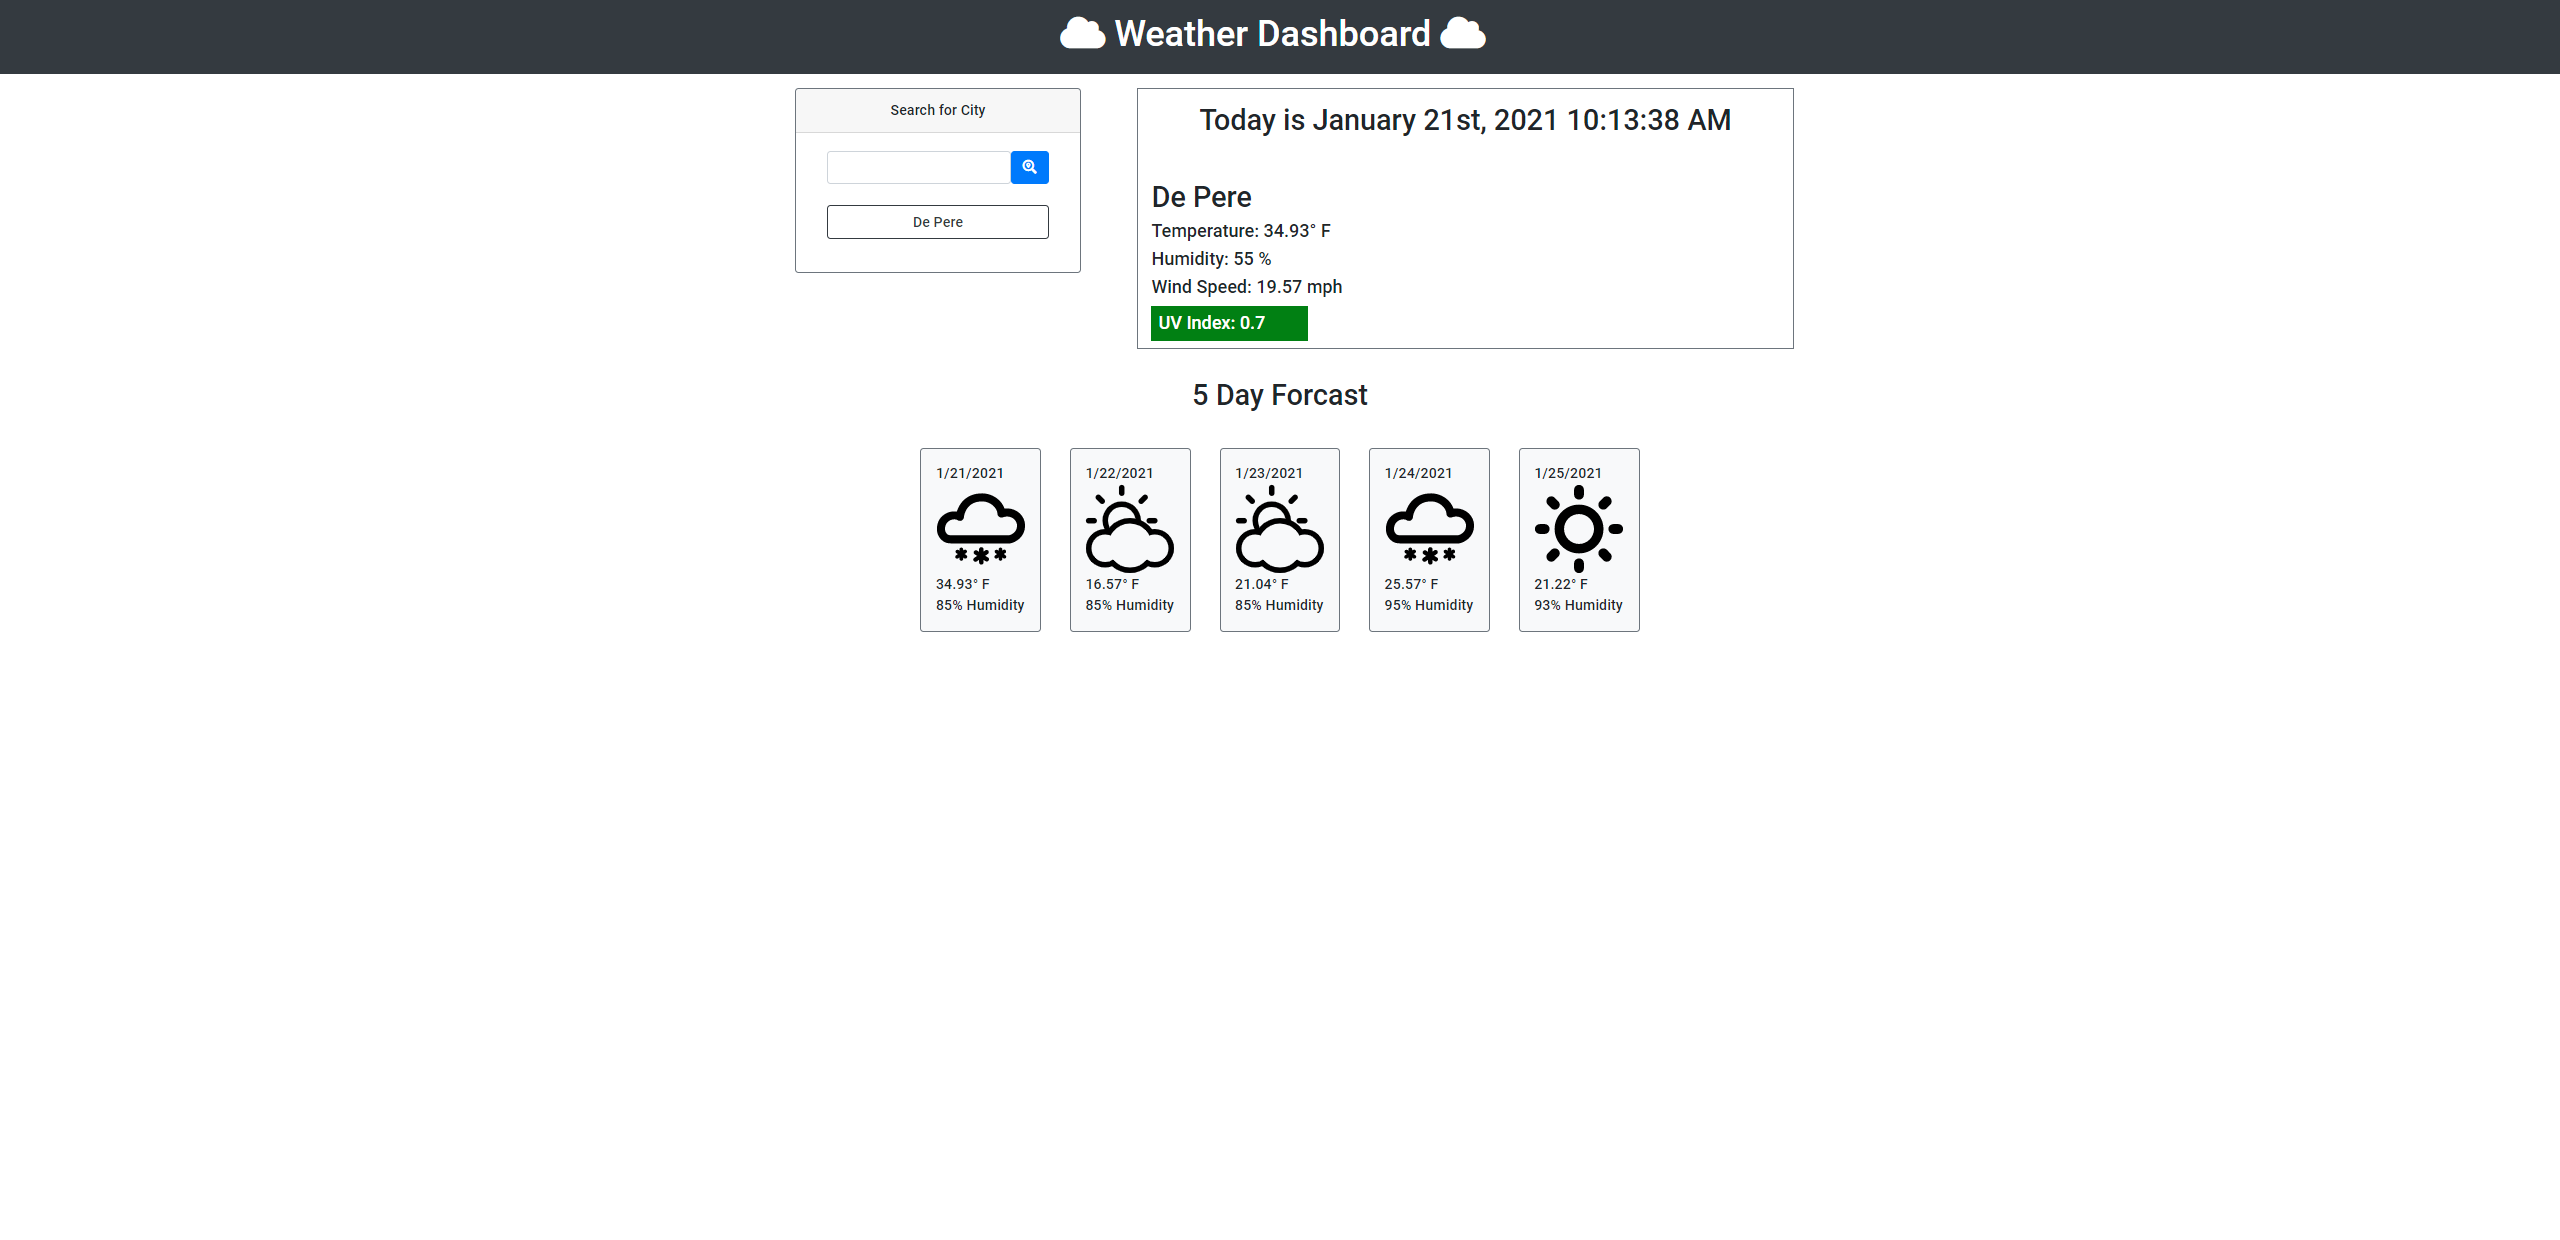
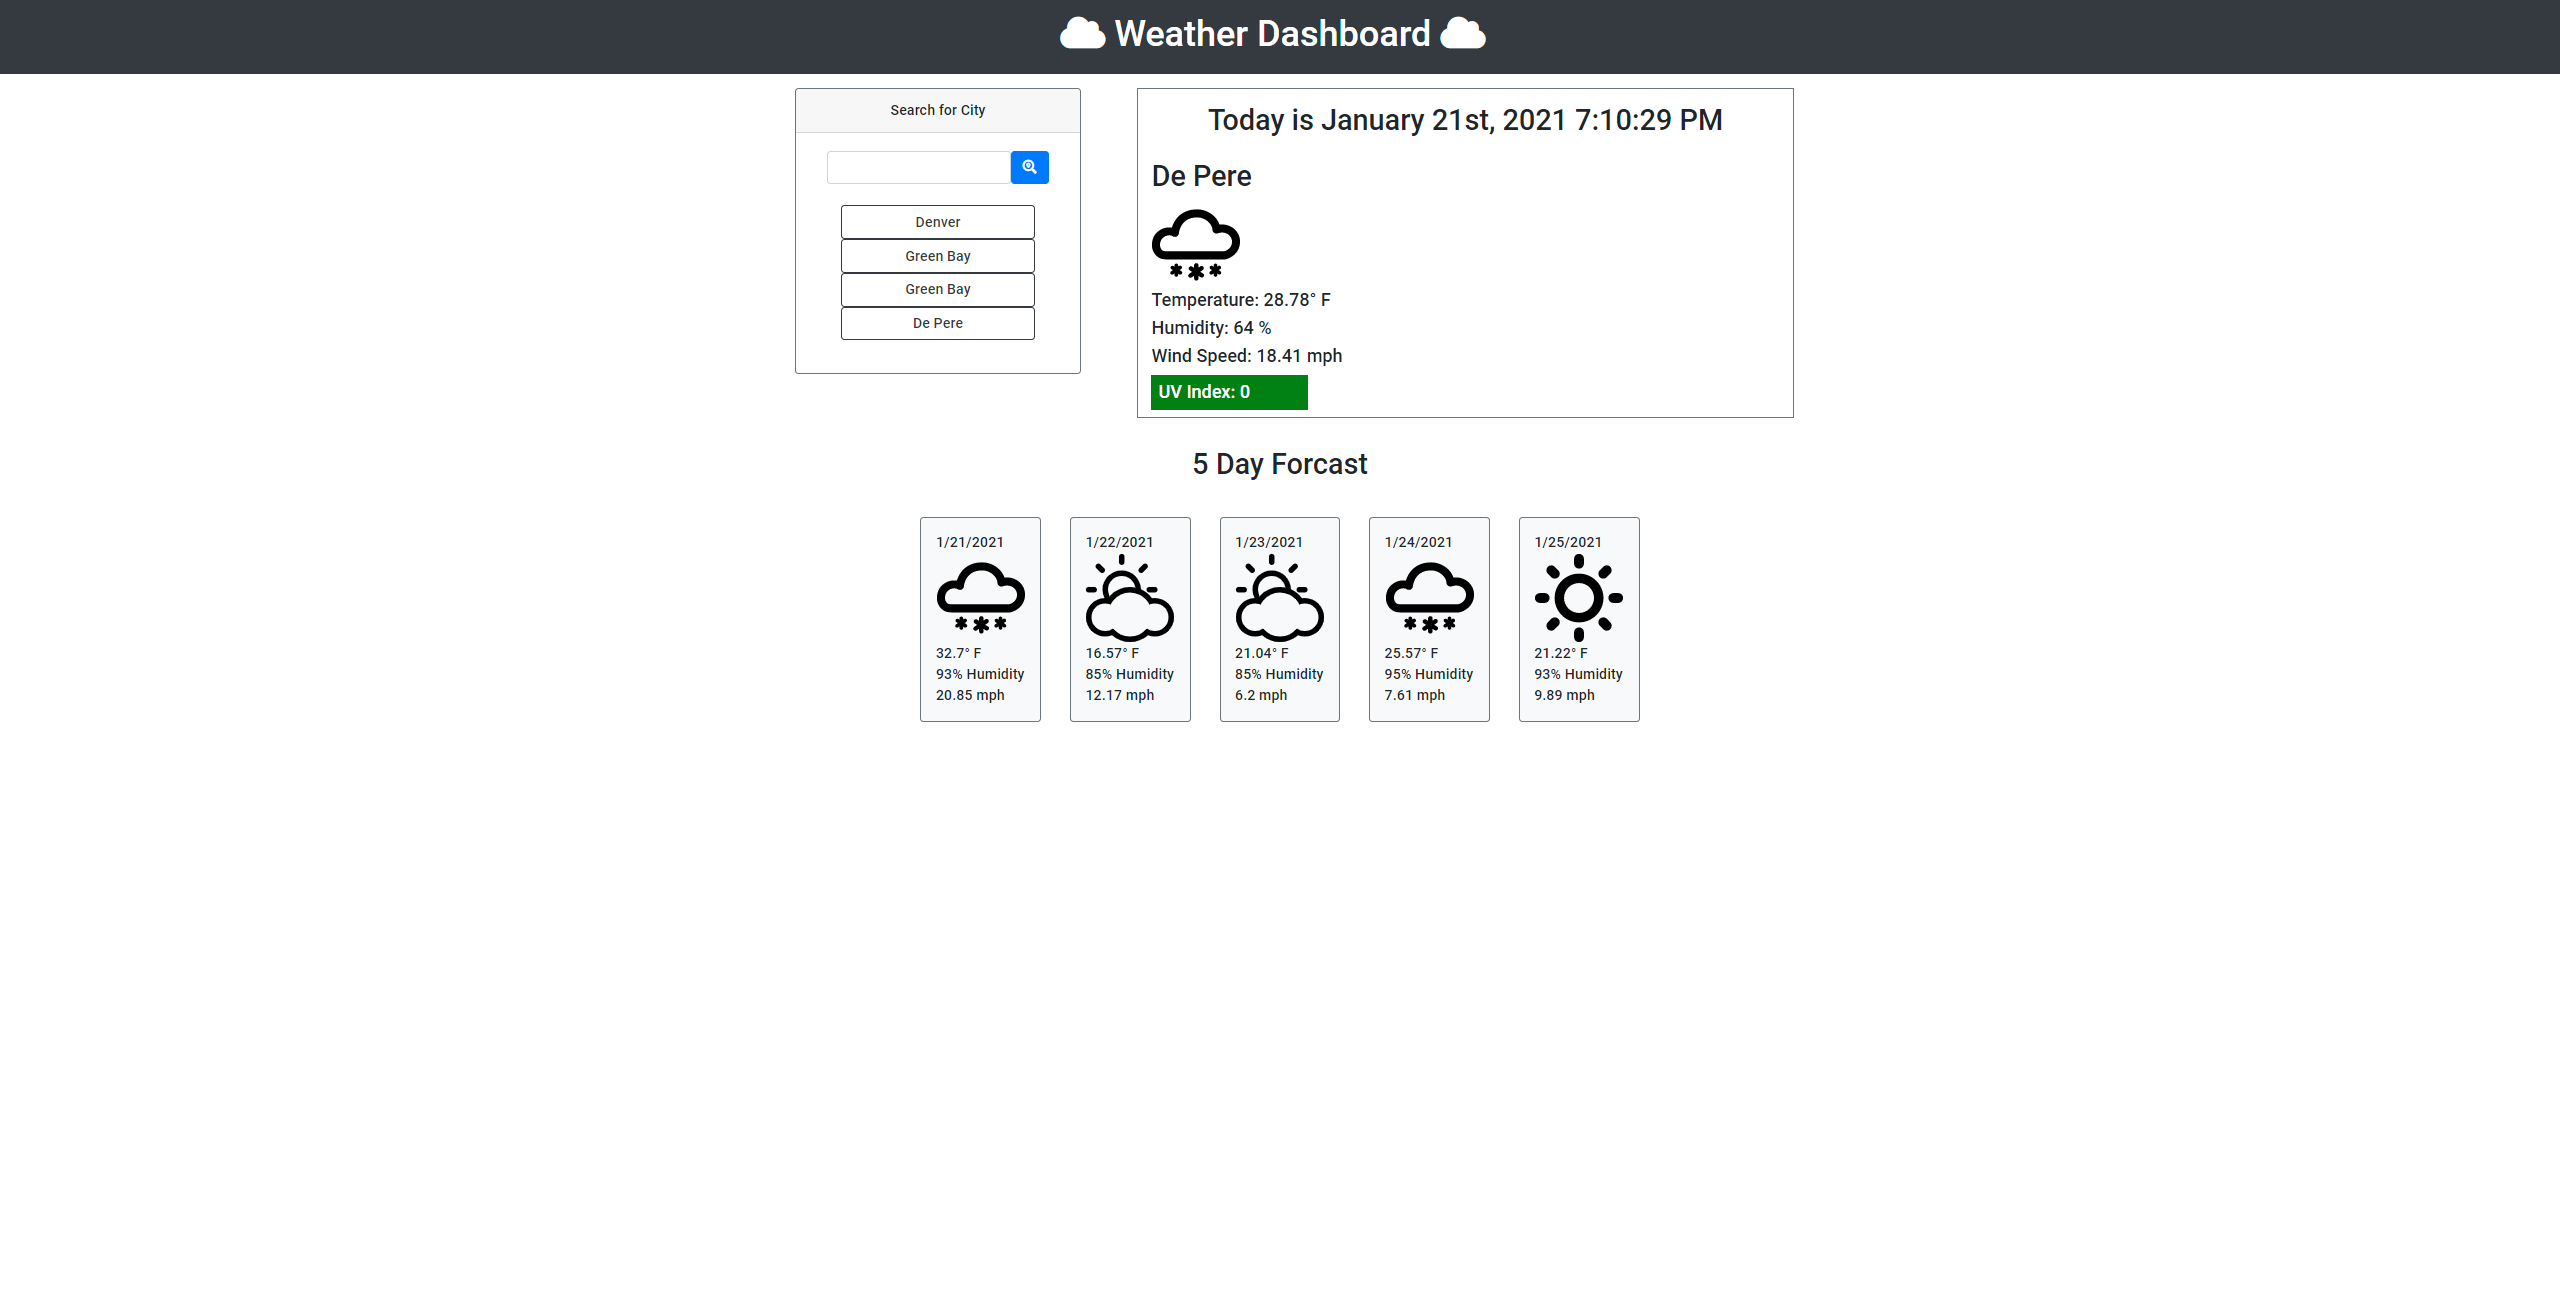
Added wind speed to 5 day

Changed region(s): [[0.0, 0.0, 1.0, 0.5516], [0.3438, 0.1532, 0.4062, 0.2758]]

diff --git a/script.js b/script.js
@@ -286,6 +286,7 @@ function displayFiveDay(daily) {
         let temp = daily[i].temp.max
         let humid = daily[i].humidity
         let icon = daily[i].weather[0].main
+        let wind = daily[i].wind_speed
         
         // create weather box
         var weatherBox = document.createElement("div")
@@ -319,6 +320,11 @@ function displayFiveDay(daily) {
         fiveDayHumid.classList = "fiveDayHumid"
         fiveDayHumid.textContent = humid + "% Humidity"
         weatherBox.appendChild(fiveDayHumid)
+
+        var fiveDayWind = document.createElement('span')
+        fiveDayWind.classList = "fiveDayWind"
+        fiveDayWind.textContent = wind + " mph"
+        weatherBox.appendChild(fiveDayWind)
 
         fiveDayContainer.appendChild(weatherBox)
     }
